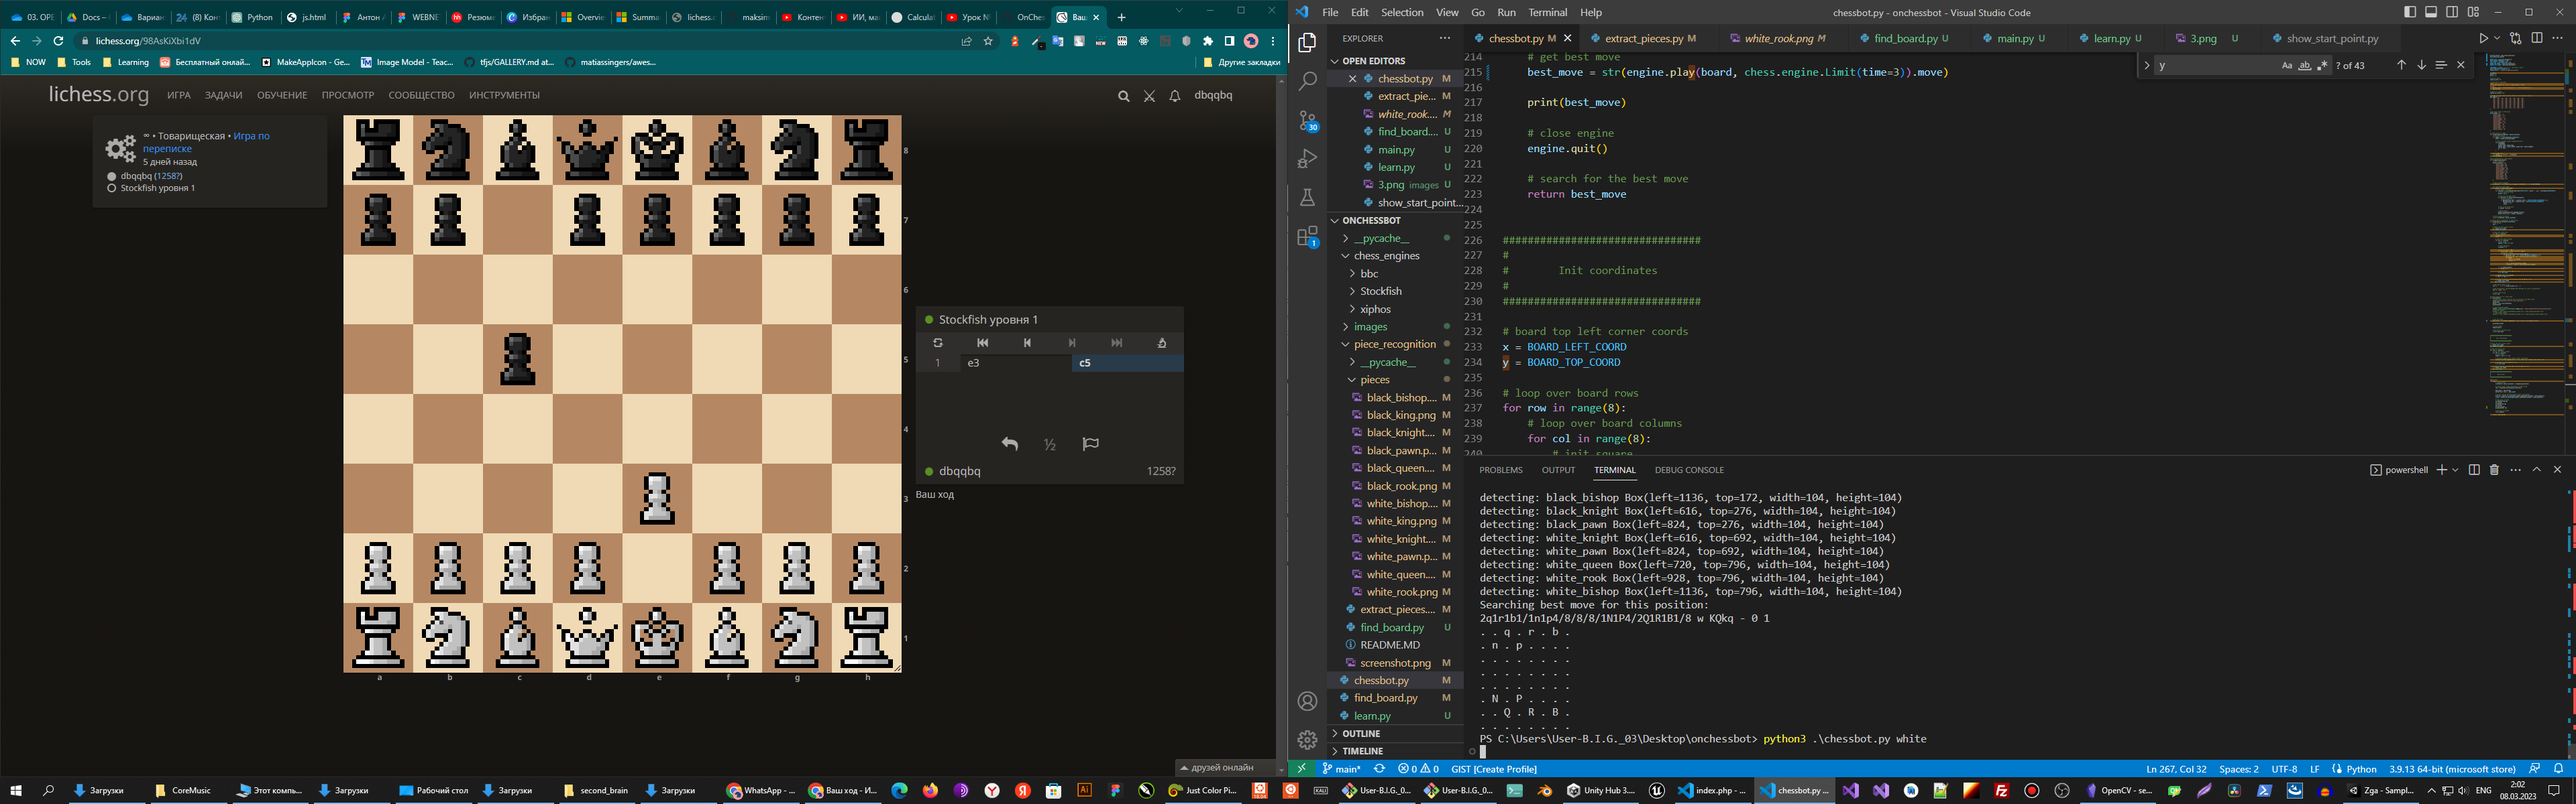
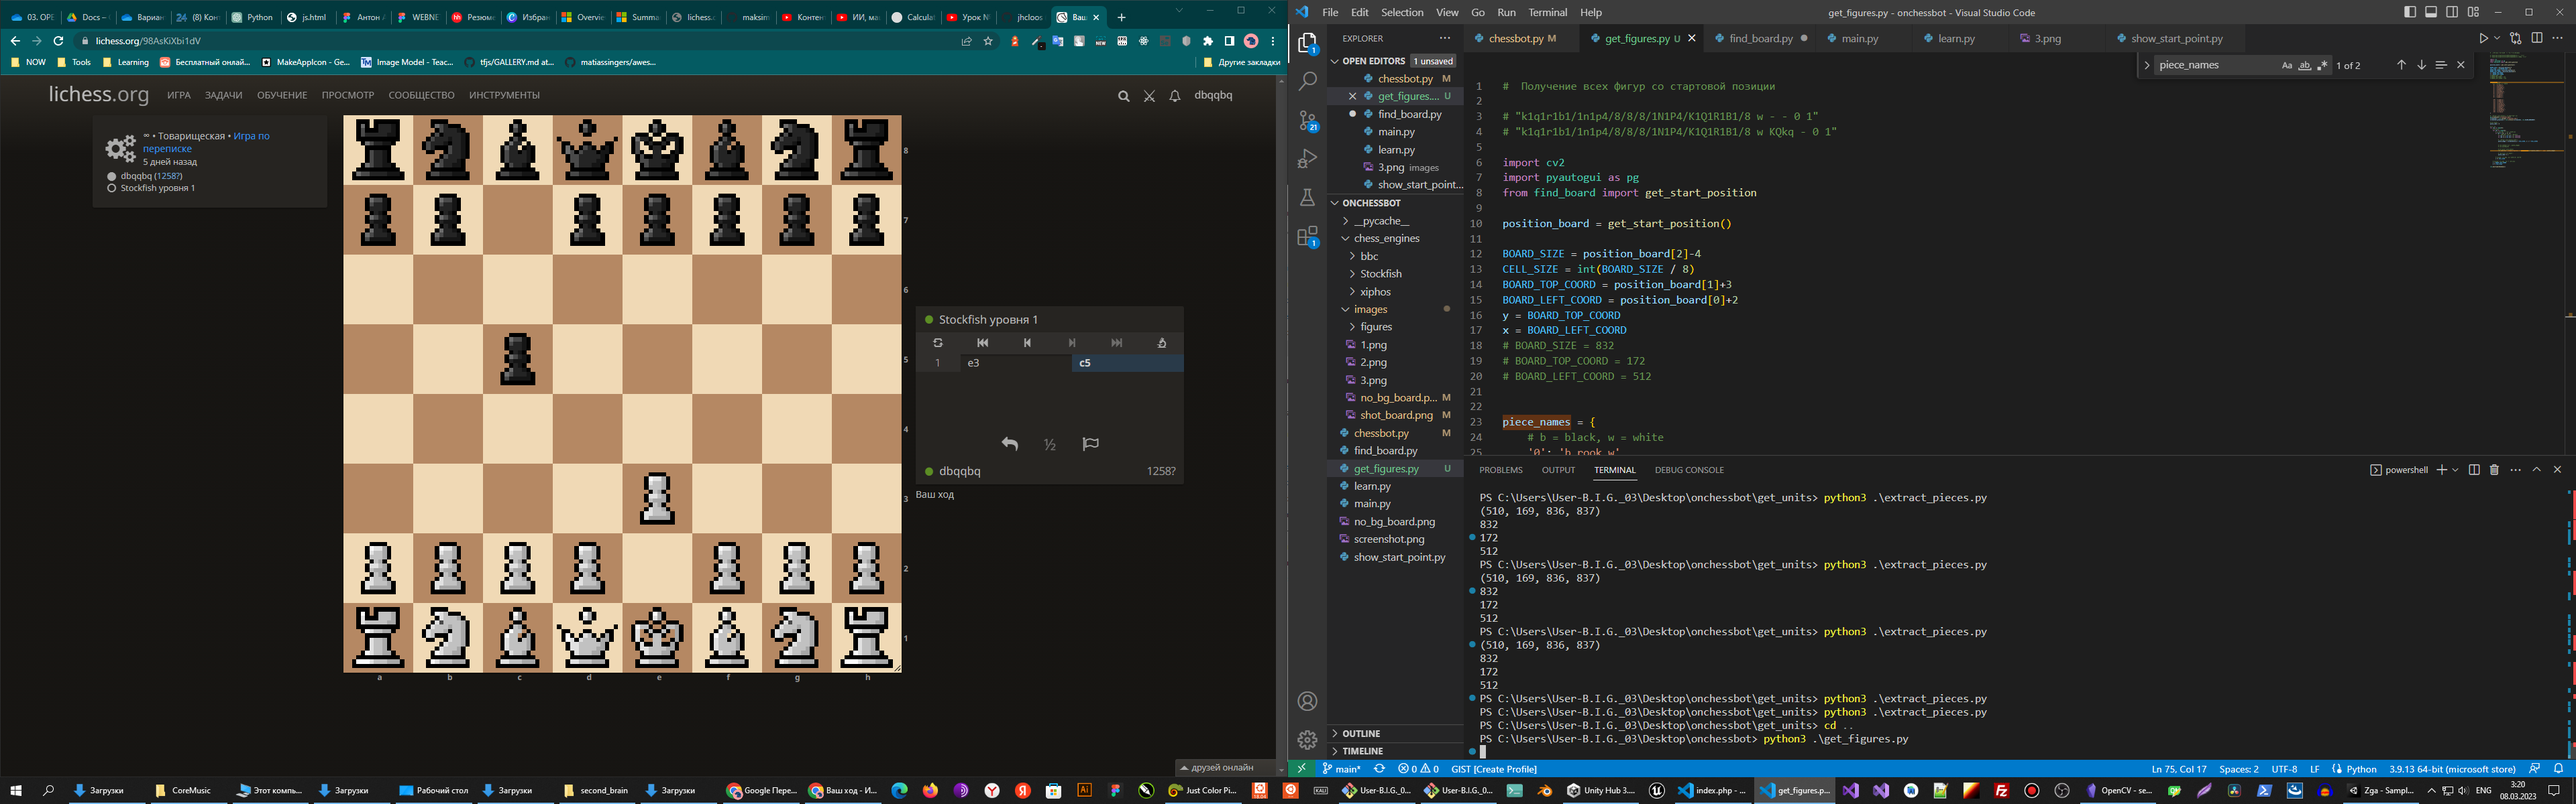
Обнавлен алгоритм получения фигур

Changed region(s): [[0.5, 0.0, 0.9062, 0.8325], [0.9688, 0.0617, 1.0, 0.5242], [0.5312, 0.8633, 0.7812, 0.925]]

diff --git a/get_figures.py b/get_figures.py
@@ -1,0 +1,87 @@
+#  Получение всех фигур со стартовой позиции
+
+# "k1q1r1b1/1n1p4/8/8/8/1N1P4/K1Q1R1B1/8 w - - 0 1"
+# "k1q1r1b1/1n1p4/8/8/8/1N1P4/K1Q1R1B1/8 w KQkq - 0 1"
+
+import cv2
+import pyautogui as pg
+from find_board import get_start_position
+
+position_board = get_start_position()
+
+BOARD_SIZE = position_board[2]-4
+CELL_SIZE = int(BOARD_SIZE / 8)
+BOARD_TOP_COORD = position_board[1]+3
+BOARD_LEFT_COORD = position_board[0]+2
+y = BOARD_TOP_COORD
+x = BOARD_LEFT_COORD
+# BOARD_SIZE = 832
+# BOARD_TOP_COORD = 172
+# BOARD_LEFT_COORD = 512
+
+
+piece_names = {
+    # b = black, w = white
+    '0': 'b_rook_w',
+    '1': 'b_horse_b',
+    '2': 'b_bishop_w',
+    '3': 'b_queen_b',
+    '4': 'b_king_w',
+    '5': 'b_bishop_b',
+    '6': 'b_horse_w',
+    '7': 'b_rook_b',
+    '8': 'b_pawn_b',
+    '9': 'b_pawn_w',
+
+    '10': 'w_pawn_w',
+    '11': 'w_pawn_b',
+    '12': 'w_rook_b',
+    '13': 'w_horse_w',
+    '14': 'w_bishop_b',
+    '15': 'w_queen_w',
+    '16': 'w_king_b',
+    '17': 'w_bishop_w',
+    '18': 'w_horse_b',
+    '19': 'w_rook_w'
+}
+
+# Получает изображение и обрабатывает его
+pg.screenshot('screenshot.png')
+screenshot = cv2.imread('screenshot.png')
+screenshot_grayscale = cv2.cvtColor(screenshot, cv2.COLOR_BGR2GRAY)
+
+# Код фигуры
+piece_code = 0
+
+# Строки
+for row in range(8):
+    # Колонки
+    for col in range(8):
+        # Перебераем строки с фигурами
+        if row in [0, 1, 6, 7]:
+            # Пропускает клетки с пешками
+            if row == 1 and col > 1: continue
+            if row == 6 and col > 1: continue
+                
+            # Получает изображение фигуры
+            piece_image = screenshot[y:y + CELL_SIZE, x: x + CELL_SIZE]
+
+                
+            # cv2.imshow('scr', piece_image)
+            # cv2.waitKey(0)
+                
+            # Сохраняет изображения
+            cv2.imwrite('./images/figures/' + piece_names[str(piece_code)] + '.png', piece_image)
+                
+            # Обновляет код фигуры
+            piece_code += 1
+        
+        # Смещает итерацию на следующую клетку
+        x += CELL_SIZE
+    
+    # Смещает итерацию на строку ниже
+    x = BOARD_LEFT_COORD
+    y += CELL_SIZE
+
+cv2.destroyAllWindows()
+

diff --git a/chessbot.py b/chessbot.py
@@ -79,13 +79,7 @@ def locate_piece(screenshot, piece_location):
         piece = piece_location[index]
         
         # draw rectangle around recognized piece
-        cv2.rectangle(
-            screenshot,
-            (piece.left, piece.top),
-            (piece.left + piece.width, piece.top + piece.height),
-            (0, 0, 255),
-            2
-        )
+        cv2.rectangle(screenshot, (piece.left, piece.top), (piece.left + piece.width, piece.top + piece.height), (0, 0, 255), 2)
     
     # display image
     cv2.imshow('Screenshot', screenshot)
@@ -137,7 +131,7 @@ def recognize_position():
     # return piece locations 
     return screenshot, piece_locations
 
-# convert piece coordinates to FEN string
+# конвертирукт координаты фигур в FEN
 def locations_to_fen(piece_locations):
     # FEN string
     fen = ''
@@ -194,7 +188,7 @@ def locations_to_fen(piece_locations):
     # return FEN string
     return fen
             
-# search position for a best move
+# находит лучший ход
 def search(fen):
     # create chess board instance and set position from FEN string
     print('Searching best move for this position:')
